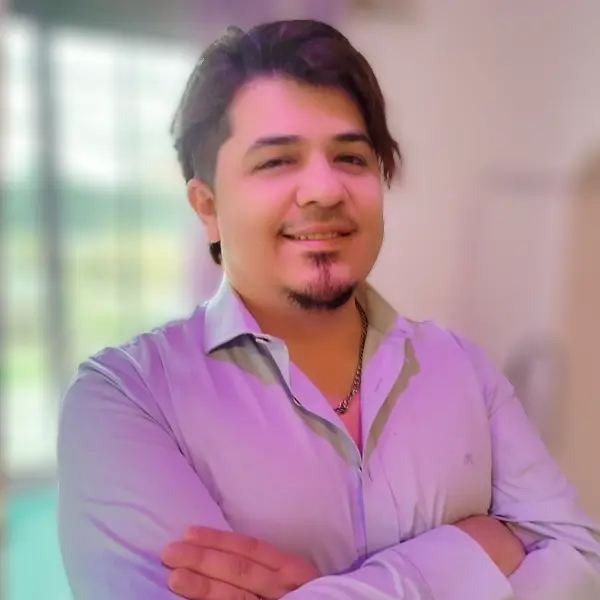
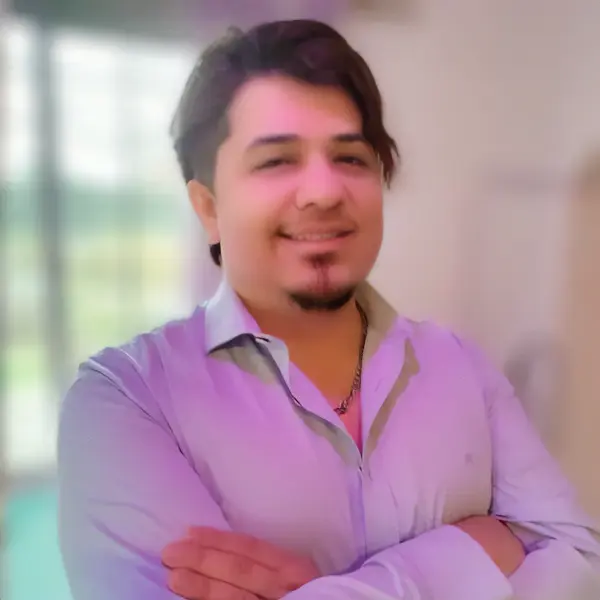
novedades front

diff --git a/_includes/head.html b/_includes/head.html
@@ -3,7 +3,7 @@
   <meta http-equiv="X-UA-Compatible" content="IE=edge">
   <meta name="viewport" content="width=device-width, initial-scale=1">
 
-  <title>{% if page.title %}{{ page.title }}{% else %}Fabian Gonzalez | Ingeniero de Software{% endif %}</title>
+  <title>{% if page.title %}{{ page.title }}{% else %}Fabián González | Ingeniero de Software Experto en AEM, HTML, CSS, JS, PHP, MySQL, ReactJS{% endif %}</title>
   <meta name='description' content='{% if page.description %}{{ page.description | strip_html | strip_newlines | truncate: 160 }}{% else %}WhatsApp: +54 911 2897 3151. Consultorías y servicios de desarrollo web, Fabian Gonzalez, ingeniero de software y desarrollador web senior.{% endif %}'>
 
   <link rel="canonical" href="{{ page.url | replace:'index.html','' | absolute_url }}">
@@ -13,12 +13,12 @@
 
   <!-- Twitter Card -->
   <meta name="twitter:card" content="summary_large_image">
-  <meta name="twitter:title" content="{% if page.url == "/" %}Fabian Gonzalez | Ingeniero de Software{% else %}{{ page.title }} – Fabian Gonzalez{% endif %}">
+  <meta name="twitter:title" content="{% if page.url == "/" %}Fabián González | Ingeniero de Software Experto en AEM, HTML, CSS, JS, PHP, MySQL, ReactJS{% else %}{{ page.title }} – Fabian Gonzalez{% endif %}">
   <meta name="twitter:description" content="{% if page.url == "/" %}WhatsApp: +54 911 2897 3151. Consultorías y servicios de desarrollo web, Fabian Gonzalez, ingeniero de software y desarrollador web senior.{% elsif page.description %}{{ page.description | strip_html | xml_escape }}{% else %}{{ page.excerpt | strip_html | xml_escape }}{% endif %}">
   <meta name="twitter:image:src" content="{{ site.url }}/assets/img/ogimage.jpg">
 
   <!-- Facebook OpenGraph -->
-  <meta property="og:title" content="{% if page.url == "/" %}Fabian Gonzalez | Ingeniero de Software{% else %}{{ page.title }} – Fabian Gonzalez{% endif %}">
+  <meta property="og:title" content="{% if page.url == "/" %}Fabián González | Ingeniero de Software Experto en AEM, HTML, CSS, JS, PHP, MySQL, ReactJS{% else %}{{ page.title }} – Fabian Gonzalez{% endif %}">
   <meta property="og:description" content="{% if page.url == "/" %}WhatsApp: +54 911 2897 3151. Consultorías y servicios de desarrollo web, Fabian Gonzalez, ingeniero de software y desarrollador web senior.{% elsif page.description %}{{ page.description | strip_html | xml_escape }}{% else %}{{ page.excerpt | strip_html | xml_escape }}{% endif %}">
   <meta property="og:image" content="{{ site.url }}/assets/img/ogimage.jpg">
   <meta property="og:image:width" content="705">
@@ -67,13 +67,13 @@
   <!-- http://ogp.me/ -->
   <meta property="og:type" content="{{ type }}" />
   <meta property="og:url" content="{{ page.url | replace:'index.html','' | prepend: site.baseurl | prepend: site.url }}" />
-  <meta property="og:title" content="{% if page.title %}{{ page.title }}{% else %}Fabian Gonzalez | Ingeniero de Software{% endif %}" />
+  <meta property="og:title" content="{% if page.title %}{{ page.title }}{% else %}Fabián González | Ingeniero de Software Experto en AEM, HTML, CSS, JS, PHP, MySQL, ReactJS{% endif %}" />
   <meta property="og:description" content="{% if page.excerpt %}{{ page.excerpt | strip_html | strip_newlines | truncate: 140 }}{% else %}WhatsApp: +54 911 2897 3151. Consultorías y servicios de desarrollo web, Fabian Gonzalez, ingeniero de software y desarrollador web senior.{% endif %}" />
 
   <meta name="twitter:card" content="summary" />
   <meta name="twitter:site" content="@FabianGonzalezdev" />
   <meta name="twitter:creator" content="@FabianGonzalezdev" />
-  <meta name="twitter:title" content="{% if page.title %}{{ page.title }}{% else %}Fabian Gonzalez | Ingeniero de Software{% endif %}" />
+  <meta name="twitter:title" content="{% if page.title %}{{ page.title }}{% else %}Fabián González | Ingeniero de Software Experto en AEM, HTML, CSS, JS, PHP, MySQL, ReactJS{% endif %}" />
   <meta name="twitter:description" content="{% if page.excerpt %}{{ page.excerpt | strip_html | strip_newlines | truncate: 140 }}{% else %}WhatsApp: +54 911 2897 3151. Consultorías y servicios de desarrollo web, Fabian Gonzalez, ingeniero de software y desarrollador web senior.{% endif %}" />
   <meta name="twitter:image" content="{{ site.url }}/assets/img/ogimage.jpg">
 
@@ -88,7 +88,7 @@
       "@type": "{{ type }}",
       "@id": "{{ page.url | replace:'index.html','' | prepend: site.baseurl | prepend: site.url }}"
     },
-    "headline": "{% if page.title %}{{ page.title }}{% else %}Fabian Gonzalez | Ingeniero de Software{% endif %}",
+    "headline": "{% if page.title %}{{ page.title }}{% else %}Fabián González | Ingeniero de Software Experto en AEM, HTML, CSS, JS, PHP, MySQL, ReactJS{% endif %}",
     "description": "{% if page.excerpt %}{{ page.excerpt | strip_html | strip_newlines | truncate: 140 }}{% else %}WhatsApp: +54 911 2897 3151. Consultorías y servicios de desarrollo web, Fabian Gonzalez, ingeniero de software y desarrollador web senior.{% endif %}",
   {% if page.date %}
     "datePublished": "{{ page.date | date_to_xmlschema }}",

diff --git a/_sass/2-base/_base.scss b/_sass/2-base/_base.scss
@@ -340,3 +340,17 @@ table td {
 .faq{
   margin-top: 25px;
 }
+@media (min-width: 768px){
+.autorImagen{
+  background-image: url("/assets/img/600x600.webp") !important;
+  background-position: 20% 40% !important;
+}
+}
+
+@media (max-width: 767px){
+  .autorImagen{
+    background-image: url("/assets/img/600x600_mobile.webp") !important;
+    background-position: 20% 40% !important;
+    max-height: 220px !important;
+  }
+  }

diff --git a/_sass/3-modules/_buttons.scss b/_sass/3-modules/_buttons.scss
@@ -69,7 +69,7 @@
   // display: inline-flex;
   justify-content: center;
   line-height: 1;
-  font-weight: 800;
+  font-weight: 700;
   border-radius: 30px;
   white-space: nowrap;
   border: none;
@@ -140,7 +140,7 @@
   z-index: 1;
   justify-content: center;
   line-height: 1;
-  font-weight: 800;
+  font-weight: 700;
   border-radius: 30px;
   white-space: nowrap;
   border: none;

diff --git a/_includes/section-author.html b/_includes/section-author.html
@@ -7,7 +7,7 @@
 
           <div class="author__right order-1 order-md-2 flex-fill">
             <div class="author__image">
-              <img class="lazy img-fluid" data-src="{{ site.data.settings.author.image }}" alt="{{site.author.name}}'s Picture">
+              <img class=" img-fluid autorImagen">
             </div>
           </div>
 

diff --git a/_sass/3-modules/_author.scss b/_sass/3-modules/_author.scss
@@ -222,7 +222,7 @@
 
     .author__image {
       width: 100%;
-      height: 380px;
+      height: 220px;
       margin-bottom: 40px;
       object-fit: cover;
       
